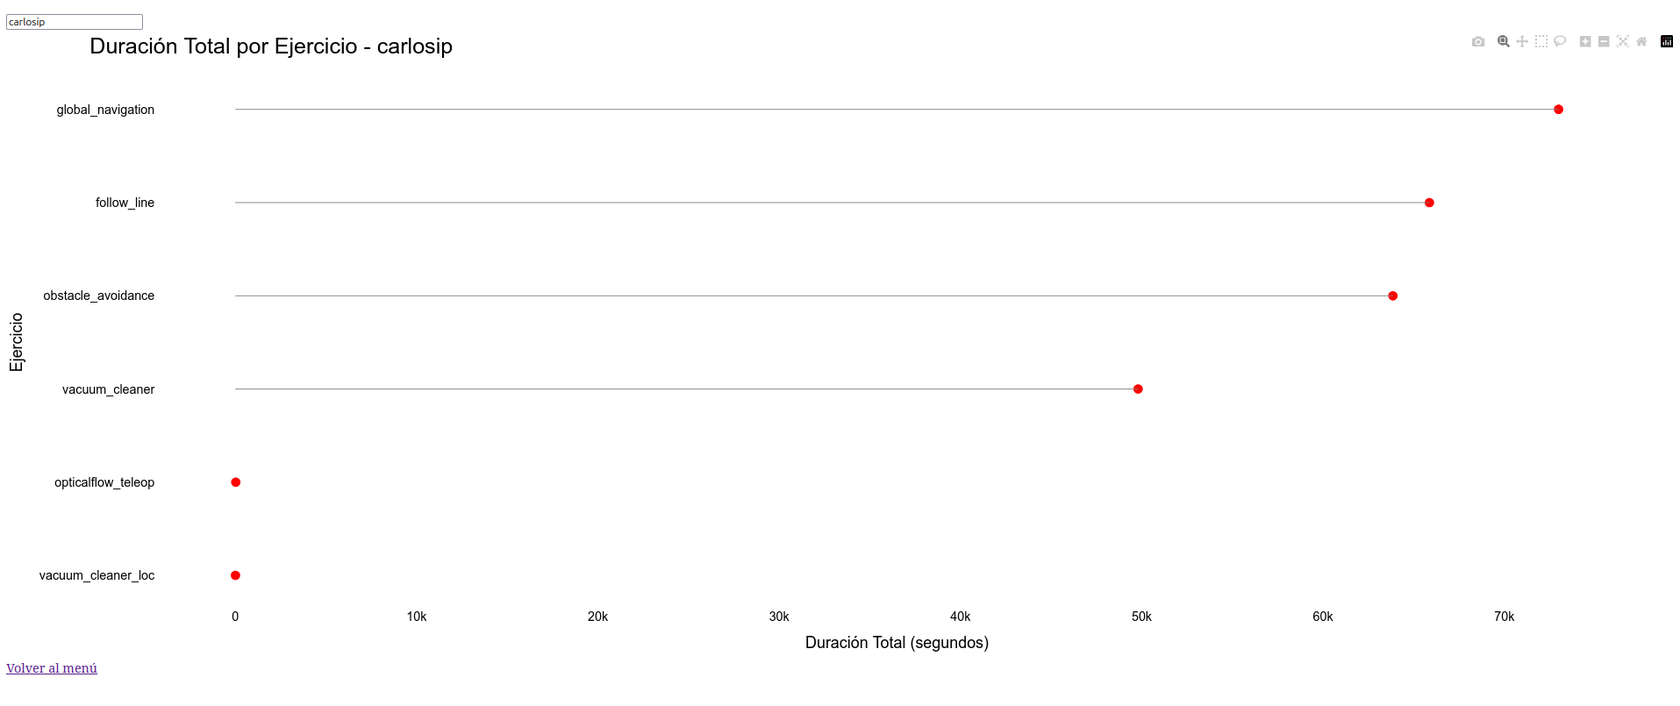
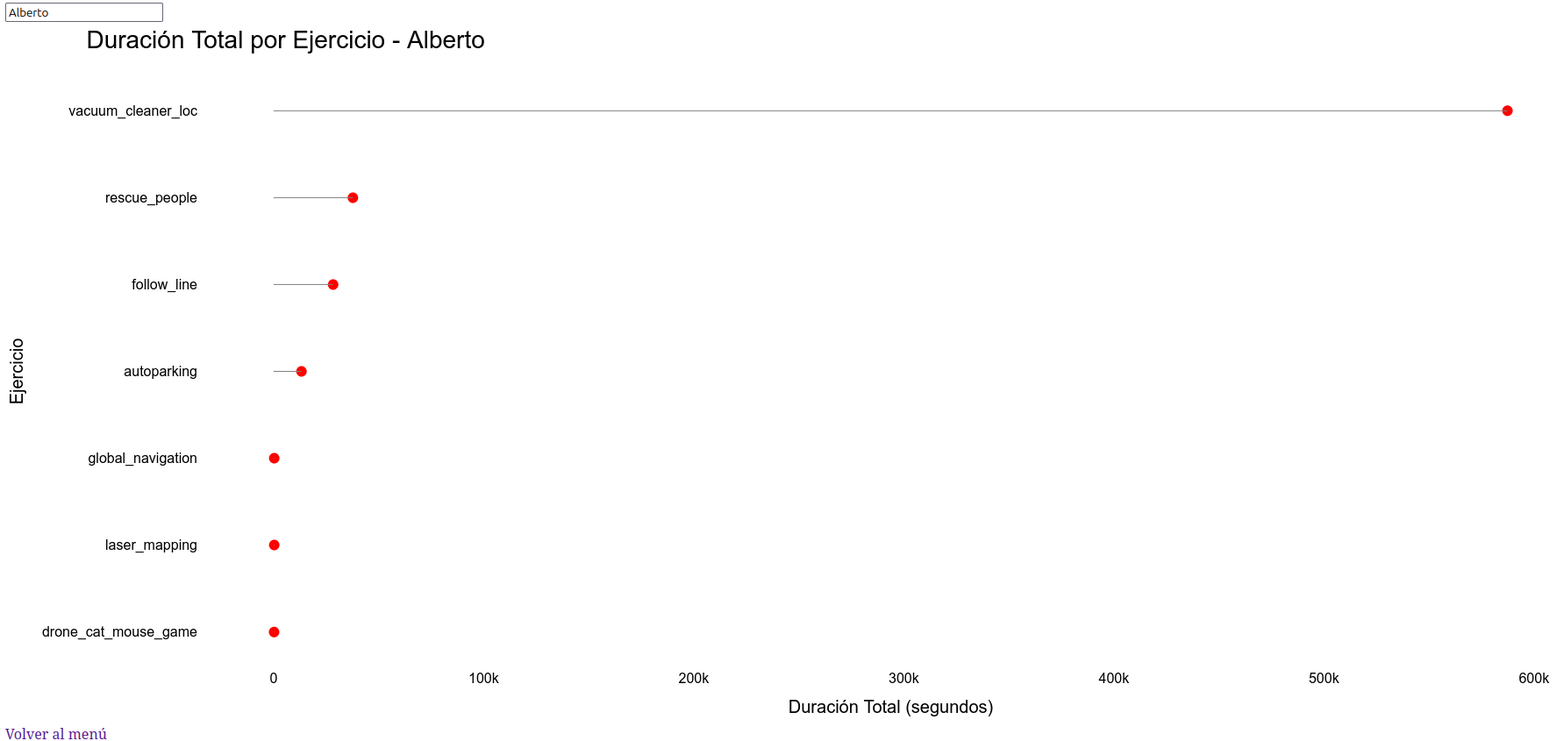
ultimso cambios memoria

diff --git a/docs/memoria/memoria.tex b/docs/memoria/memoria.tex
@@ -374,8 +374,8 @@ Móstoles/Fuenlabrada, a \qquad$\;\,$ de \qquad\qquad\qquad\qquad de 20XX
 \chapter*{}
 %\pagenumbering{Roman} % para comenzar la numeración de paginas en numeros romanos
 \begin{flushright}
-\textit{Aquí normalmente \\
-se inserta una dedicatoria corta \\}
+\textit{"Un lenguaje de programación es un medio para expresar ideas" \\
+--- Paul Graham\\}
 \end{flushright}
 
 %%%%%%%%%%%%%%%%%%%%%%%%%%%%%%%%%%%%%%%%%%%%%%%%%%%%%%%%%%%%%%%%%%%%%%%%%%%%%%%%
@@ -402,7 +402,7 @@ Y por último, gracias a Felipe, mi tutor, por darme la oportunidad de hacer est
 %\addcontentsline{toc}{chapter}{Resumen} % si queremos que aparezca en el índice
 \markboth{RESUMEN}{RESUMEN} % encabezado
 
-Este trabajo de fin de Grado tiene como objetivo principal entender mejor la interacción que se da entre los usuarios con la plataforma web Unibotics. Esta es una herramienta pensada para facilitar el aprendizaje de la robótica mediante simulaciones en entornos 3D. Gracias a esta plataforma, los estudiantes pueden crear y probar sus programas sin necesidad de configurar complejos entornos de programación, lo que hace el proceso más accesible y fomenta la experimentación.
+Este Trabajo de Fin de Grado tiene como objetivo principal entender mejor la interacción que se da entre los usuarios y la plataforma web Unibotics. Esta es una herramienta pensada para facilitar el aprendizaje de la robótica mediante simulaciones en entornos 3D. Gracias a esta plataforma, los estudiantes pueden crear y probar sus programas sin necesidad de configurar complejos entornos de programación, lo que hace el proceso más accesible y fomenta la experimentación.
 
 El proyecto se ha centrado en desarrollar un sistema capaz de extraer, procesar y mostrar de forma visual los datos que genera la propia plataforma sobre la actividad de sus usuarios. Para ello, se han utilizado tecnologías como Python, Pandas, Dash, Flask y PostgreSQL, junto con contenedores Docker para facilitar su despliegue local, lo que ha hecho viable tanto analizar los datos como crear \textit{dashboards}  adaptados a diferentes patrones de uso.
 
@@ -472,16 +472,22 @@ Por ejemplo, la instalación de entornos como ROS2 y Gazebo \cite{rico2025concis
 
 Otro gran problema del aprendizaje de la robótica es el coste de un robot en el que probar nuestros códigos, ya que, a diferencia de otras materias, la robótica es un campo cuyo aprendizaje se basa en la prueba y el error.
 
-Ante estas dificultades, han surgido en los últimos años diversas plataformas online que intentan facilitar el aprendizaje de la robótica mediante simuladores y entornos accesibles desde el navegador. Algunas de ellas, como TheConstruct, ASIMOVO o Unibotics, permiten a los usuarios programar robots virtuales sin necesidad de instalar entornos complejos ni contar con hardware físico. La Figura \ref{fig:plataformas_robotica} muestra algunos ejemplos de estas plataformas.
+Ante estas dificultades, han surgido en los últimos años diversas plataformas online que intentan facilitar el aprendizaje de la robótica mediante simuladores y entornos accesibles desde el navegador. Algunas de ellas, como TheConstruct \cite{theConstructWebsite}, ASIMOV \cite{asimovWebsite} o Unibotics \cite{uniboticsWebsite}, permiten a los usuarios programar robots virtuales sin necesidad de instalar entornos complejos ni contar con hardware físico. Las (figuras~\ref{fig:plataformas_robotica},~\ref{fig:unibotics}) muestran algunos ejemplos de estas plataformas.
 
 \begin{figure}[H]
     \centering
-    \includegraphics[width=0.8\textwidth]{img/roboticas.png}
-    \caption{Plataformas web de simulación y programación de robots: TheConstruct, ASIMOVO y Unibotics.}
+    \includegraphics[width=1.1\textwidth]{img/roboticas.png}
+    \caption{Plataformas web de simulación y programación de robots: TheConstruct y ASIMOVO.}
     \label{fig:plataformas_robotica}
 \end{figure}
 
-Este trabajo de fin de grado gira en torno a Unibotics \cite{uniboticsWebsite}, una plataforma web que nace como solución a estos problemas. Unibotics permite a los usuarios acceder a ejercicios interactivos de robótica, en los cuales podrán programar robots y simularlos en escenarios 3D sin la necesidad de tener el robot de forma física y sin tener que instalar ningún tipo de programa.
+\begin{figure}[H]
+    \centering
+    \includegraphics[width=1.1\textwidth]{img/unibotics.png}
+    \caption{Plataformas web de simulación y programación de robots: Unibotics.}
+    \label{fig:unibotics}
+\end{figure}
+Este trabajo de fin de grado gira entorno a Unibotics, una plataforma web que nace como solución a estos problemas. Unibotics permite a los usuarios acceder a ejercicios interactivos de robótica, en los cuales podrán programar robots y simularlos en escenarios 3D sin la necesidad de tener el robot de forma física y sin tener que instalar ningún tipo de programa.
 
 Sin embargo, a pesar de sus ventajas, aún existen áreas de Unibotics que podrían mejorarse. Plataformas de enseñanza online como Moodle \cite{einhardt2016moodle} llevan años aprovechando los datos de interacción de sus usuarios, como el acceso a recursos, la participación en foros o el tiempo dedicado a cada unidad, para generar informes que ayudan a los docentes a identificar dónde se quedan atascados los alumnos y adaptar el contenido en consecuencia.
 
@@ -582,9 +588,18 @@ En el contexto de este proyecto, Pandas resulta una opción adecuada, ya que la 
 
 Dash es una herramienta de Python que permite crear aplicaciones web interactivas de forma sencilla \cite{schroeder2022book,dashPlotlyDocumentation}.
 
-En este proyecto, se utilizó Dash porque facilita la creación de visualizaciones interactivas y atractivas para representar los datos obtenidos de la plataforma Unibotics. Gracias a esta herramienta, es posible generar interfaces gráficas en las que los usuarios pueden interactuar con los datos de forma intuitiva, mediante filtros, menús desplegables u otros controles dinámicos. Esto resulta especialmente útil para representar información compleja de manera clara y accesible.
+En este proyecto, se utilizó Dash porque facilita la creación de visualizaciones interactivas y atractivas para representar los datos obtenidos de la expressplataforma Unibotics. Gracias a esta herramienta, es posible generar interfaces gráficas en las que los usuarios pueden interactuar con los datos de forma intuitiva, mediante filtros, menús desplegables u otros controles dinámicos. Esto resulta especialmente útil para representar información compleja de manera clara y accesible.
 
 Además, Dash se integra fácilmente con otras bibliotecas del ecosistema Python, lo que permite construir visualizaciones dinámicas de diversos tipos, como gráficos de barras, líneas o incluso mapas interactivos.
+
+\subsection{Plotly}
+\label{subsec:plotly}
+
+Plotly es una biblioteca de Python que permite crear gráficos interactivos de forma sencilla. Es muy utilizada en proyectos de análisis de datos y ciencia de datos por su facilidad de uso y su capacidad para mostrar información de manera clara y dinámica en el navegador \cite{plotlyDocumentation}.
+
+En este proyecto, se utilizó Plotly para construir los gráficos que luego se integraron en los \textit{dashboards} creados con Dash. Aunque Dash se encarga de la parte de la interfaz web, es Plotly quien genera realmente los gráficos: barras, líneas, pastel, mapas de calor, entre otros.
+
+Una de las ventajas de Plotly es que permite personalizar muchos aspectos de los gráficos, como los colores, títulos, leyendas o etiquetas, lo que ayuda a que los datos se entiendan mejor y se vean más profesionales.
 
 \subsection{Psycopg2}
 \label{subsec:psycopg2}
@@ -594,6 +609,8 @@ Psycopg2 es una librería de Python que permite establecer conexiones con bases 
 En este proyecto, se utilizó Psycopg2 para realizar operaciones como la extracción, inserción y modificación de datos directamente desde scripts en Python. Esta biblioteca ofrece una interfaz sencilla para gestionar conexiones con la base de datos y ejecutar comandos SQL de forma segura, ayudando a prevenir vulnerabilidades comunes, como la inyección de SQL.
 
 Además, su integración con bibliotecas como Pandas, como se explicó en la subsección~\ref{subsec:Pandas}, permite cargar los resultados de las consultas directamente en estructuras de datos tabulares, lo que facilita su análisis y posterior representación visual mediante Dash (véase subsección~\ref{subsec:dash}).
+
+
 
 \section{Flask}
 \label{sec:Flask}
@@ -818,7 +835,8 @@ df["avg_duration"] = df["avg_duration"].round(2)
 \end{minted}
 \end{listing}
 
-Una vez agrupados y ordenados los datos, la parte más relevante del proceso ha sido el diseño de las visualizaciones usando \texttt{Dash} (sección~\ref{subsec:dash}), que permitió construir \textit{dashboards} interactivos adaptados a los distintos análisis planteados. A lo largo del desarrollo, se aprovecharon las múltiples opciones que ofrece la biblioteca Dash para mostrar los datos con distintos tipos de gráficos (mapas, líneas, barras, histogramas, \textit{boxplot}), eligiendo en cada caso la representación más adecuada según la naturaleza de los datos \cite{rGraphGallery}.
+Una vez agrupados y ordenados los datos, la parte más relevante del proceso ha sido el diseño de las visualizaciones usando \texttt{Dash} (sección~\ref{subsec:dash}) y \texttt{Plotly} (sección~\ref{subsec:plotly}) , que permitió construir \textit{dashboards} interactivos adaptados a los distintos análisis planteados. A lo largo del desarrollo, se aprovecharon las múltiples opciones que ofrece las bibliotecas Dash y Plotly para mostrar los datos con distintos tipos de gráficos (mapas, líneas, barras, histogramas, \textit{boxplot}), eligiendo en cada caso la representación más adecuada según la naturaleza de los datos \cite{rGraphGallery}.
+
 
 Cada \textit{dashboard} está compuesto por una serie de componentes visuales que se combinan para construir la interfaz interactiva. Estos componentes se definen utilizando elementos de tipo HTML (como títulos, contenedores o enlaces) y controles dinámicos proporcionados por Dash, como \texttt{dcc.Input} (para introducir texto) o \texttt{dcc.Dropdown} (para seleccionar opciones). Estos elementos permiten al usuario interactuar con la aplicación. Por ejemplo, en el \textit{dashboard} de la sección~\ref{sec:dash1a}, el código~\ref{lst:dcc_input_example} permite escribir un nombre de usuario para filtrar los datos.
 
@@ -1112,29 +1130,52 @@ ORDER BY total_duration DESC;
 \end{minted}
 \end{listing}
 
-De este modo, la propia consulta realiza el cálculo de la duración total (en segundos) acumulada para cada ejercicio realizado por el usuario indicado. La cláusula \texttt{GROUP BY} agrupa las filas que tienen el mismo valor de ejercicio y aplica la función agregada \texttt{SUM()} para sumar los datos de cada grupo. En otras palabras, si el usuario ha realizado varias sesiones o intentos en un mismo ejercicio, todos esos tiempos se suman en un único resultado por ejercicio. Para evitar que aparezcan ejercicios con tiempos irrelevantes, se han descartado aquellos cuya duración total es inferior a 200 segundos, entendiendo que esas sesiones tan cortas son de usuarios que han cotilleado algún que otro ejercicio, pero que realmente no le han dedicado tiempo. Esta consulta retorna una tabla con dos columnas: el nombre de cada ejercicio y la suma de la duración total que el usuario ha invertido en él. Dichos resultados se cargan en un \texttt{DataFrame} de \texttt{pandas} para su manipulación en la aplicación y posteriormente se emplean para generar la visualización.
+De este modo, la propia consulta realiza el cálculo de la duración total (en segundos) acumulada para cada ejercicio realizado por el usuario indicado. La cláusula \texttt{GROUP BY} agrupa las filas que tienen el mismo valor de ejercicio y aplica la función agregada \texttt{SUM()} para sumar los datos de cada grupo. En otras palabras, si el usuario ha realizado varias sesiones o intentos en un mismo ejercicio, todos esos tiempos se suman en un único resultado por ejercicio. Para evitar que aparezcan ejercicios con tiempos irrelevantes, se han descartado aquellos cuya duración total es inferior a 200 segundos, entendiendo que esas sesiones tan cortas son de usuarios que han revisado superficialmente algún que otro ejercicio, pero que realmente no le han dedicado tiempo. Esta consulta retorna una tabla con dos columnas: el nombre de cada ejercicio y la suma de la duración total que el usuario ha invertido en él. Dichos resultados se cargan en un \texttt{DataFrame} de \texttt{pandas} para su manipulación en la aplicación y posteriormente se emplean para generar la visualización.
 
 \begin{figure}[H]
   \centering
   \includegraphics[width=1.1\textwidth]{img/1a.png}
-  \caption{Análisis de la duración de cada uno de los ejercicios por usuario. En este ejemplo, la figura representa los datos registrados para el usuario con identificador carlosip.}
+  \caption{Análisis de la duración de cada uno de los ejercicios por usuario. En este ejemplo, la figura representa los datos registrados para el usuario con identificador Alberto.}
   \label{fig:1a}
 \end{figure}
 
-Desde el punto de vista del usuario, el sistema muestra un \textit{dashboard} y un cuadro de texto (figura~\ref{fig:1a}) donde se puede introducir el nombre de usuario cuya duración total por ejercicio se desea consultar. Una vez introducido, se carga automáticamente la información correspondiente a ese usuario.
+\begin{figure}[H]
+  \centering
+  \includegraphics[width=1.1\textwidth]{img/1aa.png}
+  \caption{Análisis de la duración de cada uno de los ejercicios por usuario. En este ejemplo, la figura representa los datos registrados para el usuario con identificador Diego\_Encabo.}
+  \label{fig:1aa}
+\end{figure}
 
-El \textit{dashboard}~\ref{fig:1a} presenta los datos mediante un gráfico horizontal de líneas con puntos, también conocido como gráfico tipo \textit{Lollipop}. Este tipo de visualización es una variación del diagrama de barras, donde la barra tradicional se transforma en una línea delgada y el valor se resalta con un marcador circular al final.
+\begin{figure}[H]
+  \centering
+  \includegraphics[width=1.1\textwidth]{img/1aaa.png}
+  \caption{Análisis de la duración de cada uno de los ejercicios por usuario. En este ejemplo, la figura representa los datos registrados para el usuario con identificador granizp.}
+  \label{fig:1aaa}
+\end{figure}
 
-Se ha elegido un gráfico del tipo \textit{Lollipop} en el que cada ejercicio aparece en función del tiempo total que el usuario le ha dedicado, ya que de esta forma es muy fácil identificar de un vistazo en qué actividades ha pasado más tiempo. Al ordenar los ejercicios de mayor a menor duración, se prioriza la información relevante del comportamiento del usuario, evitando un orden alfabético que podría ocultar patrones útiles. Así, por ejemplo, puede observarse que el ejercicio \texttt{global\_navigation} ocupa la mayor parte de la sesión, mientras que \texttt{opticalflow\_teleop} apenas tiene unos minutos, sin necesidad de analizar cada número individualmente. Este enfoque facilita la comparación entre tareas con duraciones muy distintas, evitando confusiones o búsquedas innecesarias.
+\begin{figure}[H]
+  \centering
+  \includegraphics[width=1.1\textwidth]{img/1aaaa.png}
+  \caption{Análisis de la duración de cada uno de los ejercicios por usuario. En este ejemplo, la figura representa los datos registrados para el usuario con identificador superManuel.}
+  \label{fig:1aaaa}
+\end{figure}
+
+Desde el punto de vista del usuario, el sistema muestra un \textit{dashboard} y un cuadro de texto (figuras~\ref{fig:1a},~\ref{fig:1aa},~\ref{fig:1aaa},~\ref{fig:1aaa}) donde se puede introducir el nombre de usuario cuya duración total por ejercicio se desea consultar. Una vez introducido, se carga automáticamente la información correspondiente a ese usuario.
+
+El \textit{dashboard} mostrado en las figuras~\ref{fig:1a},~\ref{fig:1aa},~\ref{fig:1aaa} y~\ref{fig:1aaaa} presentan los datos mediante un gráfico horizontal de líneas con puntos, también conocido como gráfico tipo \textit{Lollipop}. Este tipo de visualización es una variación del diagrama de barras, donde la barra tradicional se transforma en una línea delgada y el valor se resalta con un marcador circular al final.
+
+Se ha elegido un gráfico del tipo \textit{Lollipop} en el que cada ejercicio aparece en función del tiempo total que el usuario le ha dedicado, ya que de esta forma es muy fácil identificar de un vistazo en qué actividades ha pasado más tiempo. Al ordenar los ejercicios de mayor a menor duración, se prioriza la información relevante del comportamiento del usuario, evitando un orden alfabético que podría ocultar patrones útiles. Así, por ejemplo, puede observarse en la imagen \ref{fig:1a} que el ejercicio \texttt{vacum\_cleanner\_loc} ocupa la mayor parte de la sesión, mientras que \texttt{global\_navegation} apenas tiene unos minutos, sin necesidad de analizar cada número individualmente. Este enfoque facilita la comparación entre tareas con duraciones muy distintas, evitando confusiones o búsquedas innecesarias.
 
 Gracias a ello, pueden extraerse varias conclusiones:
 
 \begin{itemize}
   \item \textbf{Identificación de ejercicios más y menos trabajados:} Las longitudes de las líneas revelan de un vistazo cuáles son los ejercicios en los que el usuario ha invertido más tiempo y cuáles menos.
+  Analizando los ejemplos concretos mostrados en las figuras~\ref{fig:1a},~\ref{fig:1aa},~\ref{fig:1aaa} y~\ref{fig:1aaaa},  se observa que los ejercicios a los que estos alumnos dedican más tiempo, en comparación con otros, son \texttt{Global\_Navigation}, \texttt{Follow\_Line}, \texttt{Obstacle\_Avoidance}, \texttt{Rescue\_People y Vacuum\_Cleaner\_loc}, siendo estos dos últimos en los que invierten una mayor cantidad de tiempo.
 
   \item \textbf{Detección de patrones de esfuerzo o dificultad:} Una duración total muy elevada en un ejercicio puede indicar que el usuario ha tenido dificultades, ha necesitado múltiples intentos prolongados o que se trata de una tarea extensa. Por el contrario, duraciones muy bajas podrían sugerir que el ejercicio se completó rápidamente o incluso fue abandonado. En ambos casos, los valores extremos de la distribución temporal pueden señalar ejercicios que requieren atención específica al evaluar el progreso.
 
   \item \textbf{Distribución del tiempo de aprendizaje:} El conjunto de duraciones permite observar cómo el usuario ha distribuido su tiempo en la plataforma. Un perfil equilibrado mostraría tiempos similares entre ejercicios, mientras que un perfil más desequilibrado tendría unos pocos ejercicios concentrando la mayor parte del tiempo total.
+  En los ejemplos concretos de las Figuras~\ref{fig:1a} (usuario Alberto) y~\ref{fig:1aa} (usuario Diego\_Encabo), se aprecian dos perfiles claramente diferenciados. Mientras que Alberto concentró gran parte de su tiempo en el ejercicio \texttt{Vacuum\_Cleaner\_loc} y dedicó significativamente menos tiempo al resto, Diego\_Encabo mostró una distribución más equilibrada, con tiempos relativamente similares entre los distintos ejercicios, a pesar de que también dedicó más atención a algunos en particular.
 \end{itemize}
 
 
@@ -1169,7 +1210,7 @@ A partir de la consulta~\ref{lst:sql_duration_sessions_per_country} se genera un
   \label{fig:1c}
 \end{figure}
 
-El \textit{dashboard}~\ref{fig:1c} utiliza un mapa coroplético, generado mediante Plotly Express, en el que cada país se colorea en función de la duración promedio de sesión. Cuanto mayor es la duración, más intenso es el color asignado, siguiendo una escala cromática progresiva desde tonos claros hasta colores más saturados. En el ejemplo mostrado se emplea una paleta de colores continua personalizada para resaltar visualmente los valores extremos.
+El \textit{dashboard}~\ref{fig:1c} utiliza un mapa coroplético, generado mediante Plotly, en el que cada país se colorea en función de la duración promedio de sesión. Cuanto mayor es la duración, más intenso es el color asignado, siguiendo una escala cromática progresiva desde tonos claros hasta colores más saturados. En el ejemplo mostrado se emplea una paleta de colores continua personalizada para resaltar visualmente los valores extremos.
 
 
 Se ha elegido un mapa coroplético porque este tipo de visualización permite mostrar de forma clara cómo se distribuye la duración promedio de las sesiones a lo largo del mundo. Al asignar un color a cada país según su valor de duración, se puede identificar al instante qué regiones concentran más actividad y cuáles menos, sin necesidad de consultar tablas o listas. El degradado de colores refuerza la percepción de diferencias entre países y facilita la identificación de patrones globales.
@@ -1215,7 +1256,7 @@ Una vez obtenidos los resultados, se cargan en un \texttt{DataFrame} de \texttt{
   \label{fig:2a}
 \end{figure}
 
-El \textit{dashboard}~\ref{fig:2a} utiliza un mapa coroplético (\textit{choropleth map}), generado mediante Plotly Express, en el que cada país se colorea en función de la duración total de sesión. Cuanto mayor es la duración, más intenso es el color asignado, siguiendo una escala cromática progresiva desde tonos claros hasta colores más saturados. En el ejemplo mostrado, se emplea una paleta de colores continua personalizada para resaltar visualmente los valores extremos.
+El \textit{dashboard}~\ref{fig:2a} utiliza un mapa coroplético (\textit{choropleth map}), generado mediante Plotly, en el que cada país se colorea en función de la duración total de sesión. Cuanto mayor es la duración, más intenso es el color asignado, siguiendo una escala cromática progresiva desde tonos claros hasta colores más saturados. En el ejemplo mostrado, se emplea una paleta de colores continua personalizada para resaltar visualmente los valores extremos.
 
 
 Se ha elegido un mapa coroplético porque, al igual que en el caso anterior~\ref{sec:dash1c}, permite ver de un vistazo cómo se distribuye la duración total de sesiones por país: cada país se colorea según su valor, mostrando de forma inmediata qué regiones concentran más actividad y cuáles menos, sin necesidad de consultar tablas o listas.
@@ -1310,7 +1351,7 @@ ORDER BY total_duration;
 \end{minted}
 \end{listing}
 
-Después de obtener los datos, aplico una transformación logarítmica al valor de duración total. Esto se hace para reducir la dispersión de los datos: como hay usuarios que pueden haber pasado desde unos pocos segundos hasta varias horas en un mismo ejercicio, el uso de una escala logarítmica permite ver toda la distribución de una forma más equilibrada. Además, se han descartado los usuarios cuya dedicación total al ejercicio es inferior a 200 segundos, entendiendo que esas sesiones tan cortas suelen corresponder a casos en los que simplemente han cotilleado el ejercicio sin llegar a trabajar realmente en él.
+Después de obtener los datos, aplico una transformación logarítmica al valor de duración total. Esto se hace para reducir la dispersión de los datos: como hay usuarios que pueden haber pasado desde unos pocos segundos hasta varias horas en un mismo ejercicio, el uso de una escala logarítmica permite ver toda la distribución de una forma más equilibrada. Además, se han descartado los usuarios cuya dedicación total al ejercicio es inferior a 200 segundos, entendiendo que esas sesiones tan cortas suelen corresponder a casos en los que simplemente han revisado superficialmente el ejercicio sin llegar a trabajar realmente en él.
 
 
 \begin{figure}[H]
@@ -1320,7 +1361,28 @@ Después de obtener los datos, aplico una transformación logarítmica al valor 
   \label{fig:3a}
 \end{figure}
 
-El \textit{dashboard}~\ref{fig:3a} muestra los datos en un histograma, donde el eje horizontal representa el logaritmo de la duración total (en segundos) y el eje vertical representa el número de usuarios que tienen una duración dentro de cada rango.
+\begin{figure}[H]
+  \centering
+  \includegraphics[width=1.1\textwidth]{img/3aa.png}
+  \caption{Histograma que representa la frecuencia (número de usuarios) de la duración total en segundos (escala log.) por ejercicio. La figura muestra los resultados obtenidos para el ejercicio global\_navegation.}
+  \label{fig:3aa}
+\end{figure}
+
+\begin{figure}[H]
+  \centering
+  \includegraphics[width=1.1\textwidth]{img/3aaa.png}
+  \caption{Histograma que representa la frecuencia (número de usuarios) de la duración total en segundos (escala log.) por ejercicio. La figura muestra los resultados obtenidos para el ejercicio vacum\_cleaner\_loc.}
+  \label{fig:3aaa}
+\end{figure}
+
+\begin{figure}[H]
+  \centering
+  \includegraphics[width=1.1\textwidth]{img/3aaaa.png}
+  \caption{Histograma que representa la frecuencia (número de usuarios) de la duración total en segundos (escala log.) por ejercicio. La figura muestra los resultados obtenidos para el ejercicio obstacle\_avoidance.}
+  \label{fig:3aaaa}
+\end{figure}
+
+El \textit{dashboard} mostrado en las Figuras~\ref{fig:3a},\ref{fig:3aa},\ref{fig:3aaa} y~\ref{fig:3aaaa} presenta los datos en forma de histograma, donde el eje horizontal representa el logaritmo de la duración total (en segundos) y el eje vertical indica el número de usuarios cuya duración se encuentra dentro de cada rango.
 
 Cada barra del histograma indica cuántos usuarios cayeron en ese intervalo de duraciones. Como los valores varían mucho entre usuarios, apliqué la función logarítmica en el eje X para comprimir la escala. De ese modo, en lugar de tener muchas barras amontonadas en valores muy bajos y solo algunos casos aislados al final, se obtienen intervalos más balanceados.
 
@@ -1330,14 +1392,20 @@ Al observar el histograma, se puede identificar de un vistazo si la mayoría se 
 
 Este análisis ayuda a comprender con mayor profundidad cómo se comportan los usuarios al realizar un ejercicio determinado. A partir de esta información, destaco los siguientes aspectos:
 
+
+
 \begin{itemize}
-  \item \textbf{Distribución de los tiempos:} Permite observar si la mayoría de los usuarios completan el ejercicio en tiempos similares o si existen grandes diferencias entre ellos.
+  \item \textbf{Distribución de los tiempos:} Permite observar si la mayoría de los usuarios completan el ejercicio en tiempos similares o si existen grandes diferencias entre ellos.  
+  Por ejemplo, en el ejercicio \texttt{follow\_line} (Figura~\ref{fig:3a}), la distribución muestra una gran variabilidad, con usuarios repartidos a lo largo de todo el rango de duración, lo que sugiere comportamientos diversos al afrontar el ejercicio. En contraste, en \texttt{global\_navigation} (Figura~\ref{fig:3aa}) se observa una distribución más concentrada, donde la mayoría de los usuarios dedican tiempos similares (log entre 10 y 12), lo que indica un comportamiento más homogéneo.
 
-  \item \textbf{Tiempos agrupados en valores bajos:} Pueden indicar que el ejercicio es sencillo o que muchos usuarios dedicaron poco tiempo, posiblemente porque lo abandonaron pronto.
+  \item \textbf{Tiempos agrupados en valores bajos:} Pueden indicar que el ejercicio es sencillo o que muchos usuarios dedicaron poco tiempo, posiblemente porque lo abandonaron pronto.  
+  En el caso de \texttt{vacuum\_cleaner\_loc} (Figura~\ref{fig:3aaa}), se observa un grupo de usuarios con tiempos muy bajos (log entre 6 y 8), lo que podría indicar que algunos usuarios abandonaron el ejercicio antes de completarlo o que lo resolvieron muy rápidamente. Esta información es útil para detectar si el ejercicio necesita una introducción más clara o una dificultad más progresiva.
 
-  \item \textbf{Gran variedad de tiempos:} Sugiere que el ejercicio tiene un nivel de dificultad variable o que permite explorar distintas soluciones, lo que implica más tiempo dedicado por parte de los usuarios.
+  \item \textbf{Gran variedad de tiempos:} Sugiere que el ejercicio tiene un nivel de dificultad variable o que permite explorar distintas soluciones, lo que implica más tiempo dedicado por parte de los usuarios.  
+  Un ejemplo representativo es el ejercicio \texttt{follow\_line} (Figura~\ref{fig:3a}), cuyo histograma muestra una distribución extendida a lo largo de un amplio rango de tiempos, con múltiples picos en diferentes intervalos. Esto indica que algunos usuarios lo completaron rápidamente, mientras que otros necesitaron considerablemente más tiempo, posiblemente debido a distintas estrategias o a dificultades encontradas durante la realización del ejercicio.
 
-  \item \textbf{Utilidad para los profesores:} Este análisis facilita detectar si el ejercicio está bien equilibrado en dificultad o si requiere ajustes para mejorar la experiencia de aprendizaje.
+  \item \textbf{Utilidad para los profesores:} Este análisis facilita detectar si el ejercicio está bien equilibrado en dificultad o si requiere ajustes para mejorar la experiencia de aprendizaje.  
+  Por ejemplo, la concentración de tiempos observada en \texttt{global\_navigation} (Figura~\ref{fig:3aa}) sugiere que el ejercicio está bien ajustado en términos de dificultad y duración esperada. En cambio, en \texttt{obstacle\_avoidance} (Figura~\ref{fig:3aaaa}) se observa una distribución más asimétrica, con una acumulación clara de usuarios en rangos medios-altos (log entre 10 y 12), lo que puede indicar que el ejercicio presenta una dificultad sostenida que podría requerir apoyo adicional para ciertos perfiles de estudiantes.
 \end{itemize}
 
 
@@ -1346,7 +1414,7 @@ Este análisis ayuda a comprender con mayor profundidad cómo se comportan los u
 
 Este \textit{dashboard} muestra cómo se distribuye el tiempo que cada usuario ha dedicado a distintos ejercicios de Unibotics. Utiliza diagramas de caja, también llamados \textit{boxplots}, aplicando una escala logarítmica para representar mejor las diferencias entre los usuarios.
 
-Los datos se obtienen de la tabla \texttt{log\_exercises}, y mediante la consulta SQL~\ref{lst:sql_total_duration_per_exercise_user} agrupo la información por nombre de ejercicio y por usuario, sumando la duración total que cada uno ha dedicado a cada ejercicio. Solo se consideran aquellos casos donde el tiempo total registrado supera los 200 segundos, para evitar incluir sesiones demasiado breves que suelen corresponder a usuarios que simplemente han cotilleado un ejercicio sin dedicarle tiempo real.
+Los datos se obtienen de la tabla \texttt{log\_exercises}, y mediante la consulta SQL~\ref{lst:sql_total_duration_per_exercise_user} agrupo la información por nombre de ejercicio y por usuario, sumando la duración total que cada uno ha dedicado a cada ejercicio. Solo se consideran aquellos casos donde el tiempo total registrado supera los 200 segundos, para evitar incluir sesiones demasiado breves que suelen corresponder a usuarios que simplemente han revisado superficialmente un ejercicio sin dedicarle tiempo real.
 
 \begin{listing}[h!]
 \caption{Consulta SQL para obtener duración total por ejercicio y usuario.}
